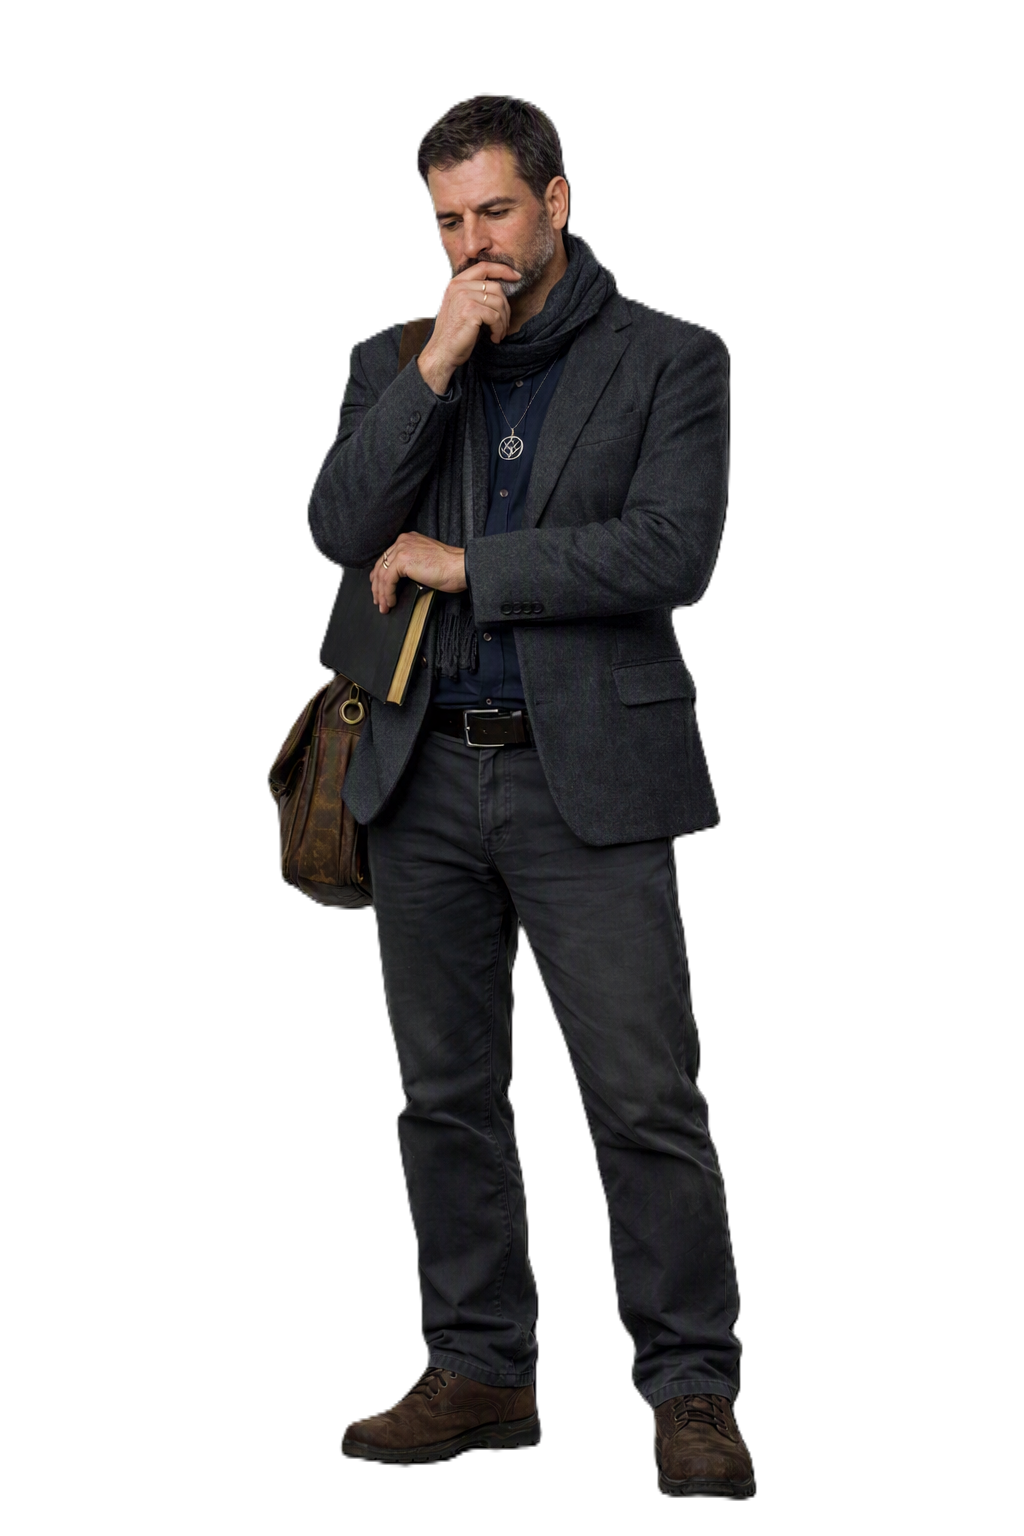
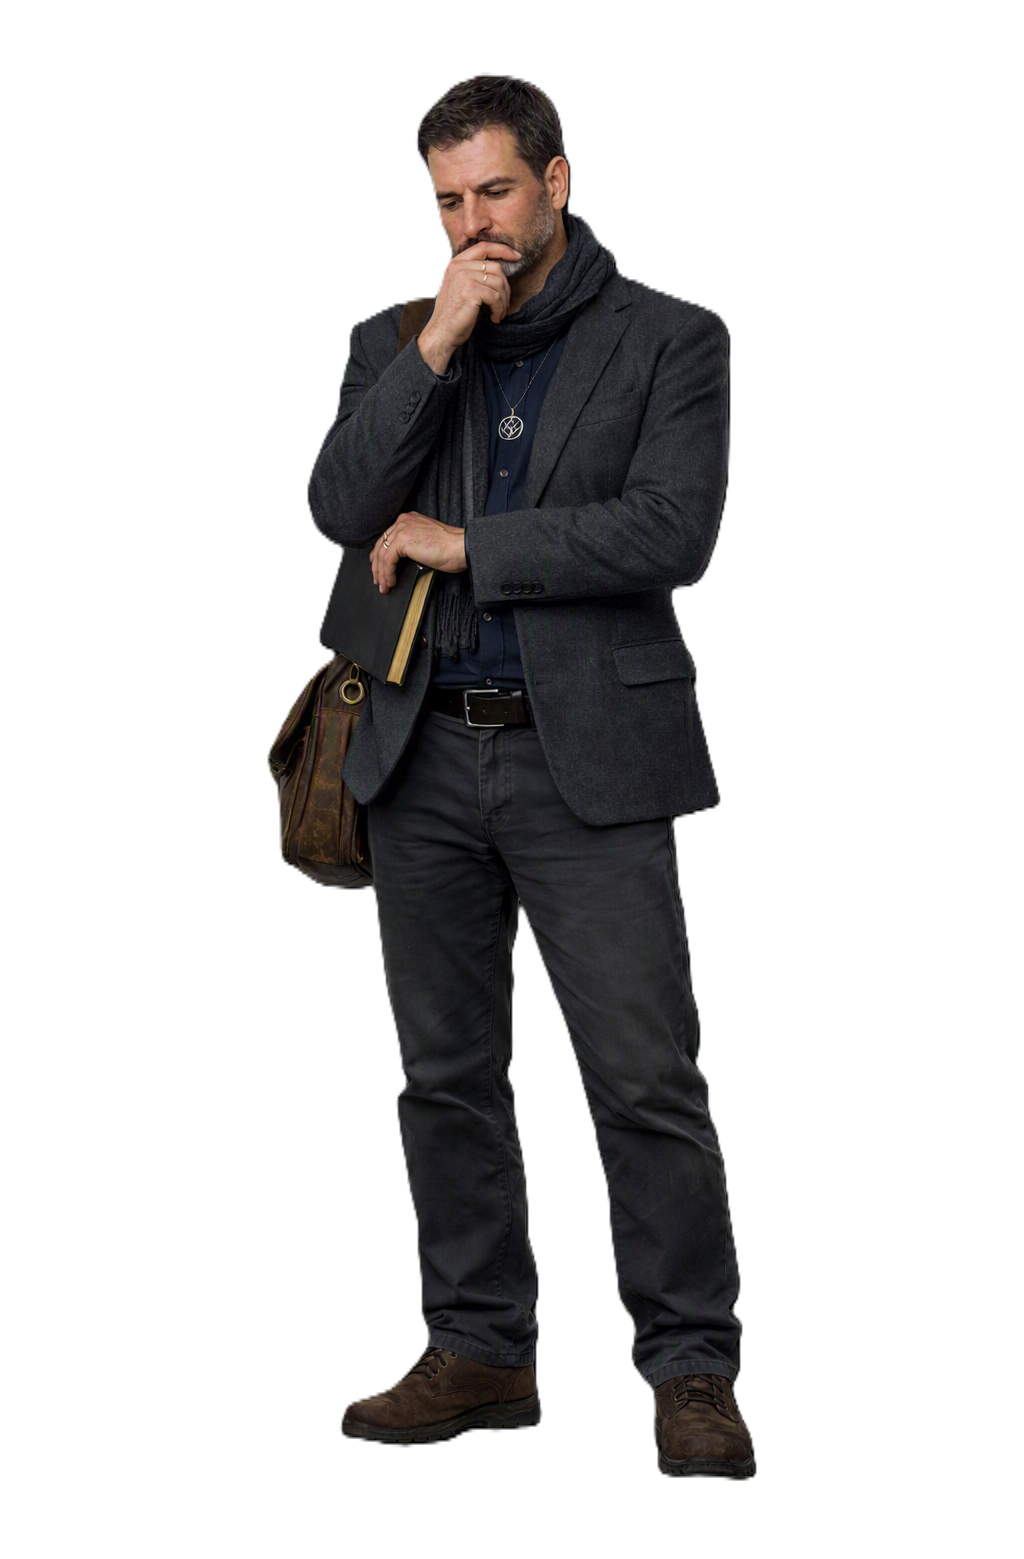
Actualiza recursos visuales del inventario y escenas

diff --git a/js/script.js b/js/script.js
@@ -916,8 +916,18 @@ monogatari.assets ('images', {
 	'llave_antigua': 'llave_antigua.png',
 	'overlay_vignette_sepia': 'overlay_vignette_sepia.png',
 	'overlay_grano': 'overlay_grano.png',
-	'overlay_letterbox': 'overlay_letterbox.png'
+	'overlay_letterbox': 'overlay_letterbox.png',
 
+	'collar': 'collar.png',
+	'amuleto': 'amuleto.png',
+	'tubo': 'tubo.png',
+	'palanca': 'palanca.png',
+	'pincel_arqueologico': 'pincel_arqueologico.png',
+	'lupa_filologo': 'lupa_filologo.png',
+	'simbolo_babilonico': 'simbolo_babilonico.png',
+	'reactivo_acido': 'reactivo_acido.png',
+	'epigrama_antipatro': 'epigrama_antipatro.png',
+	'paleta': 'paleta.png'
 });
 
 // Define the backgrounds for each scene.
@@ -1130,12 +1140,12 @@ monogatari.characters ({
         color: '#9B59B6',
         directory: 'lucia',
         sprites: {
-            normal: 'lucia_normal.png',
-            analitica: 'lucia_analyzing.png',
-	        concentrada: 'lucia_concentrada.png', 
+            normal: 'normal.png',
+            analitica: 'analitica.png',
+			   concentrada: 'concentrada.png',
 			scared: 'scared.png',
 			thinking: 'thinking.png',
-			calm: 'lucia_normal.png',
+			calm: 'normal.png',
 			smile: 'smile.png'
         }
     },
@@ -1645,9 +1655,9 @@ monogatari.script({
         //() => hideHotspot('vitrina'),
         //() => stopIconFollow(),
 		() => VerObjeto('idolo'),
-		() => ImagenEnHotspot('panuelo', { escala: 0.3 }),
+		() => ImagenEnHotspot('panuelo', { escala: 0.2 }),
         () => TomarObjeto('panuelo'),
-		() => ImagenEnHotspot('llave_antigua', { escala: 0.3 }),
+		() => ImagenEnHotspot('llave_antigua', { escala: 0.2 }),
 		() => TomarObjeto('llave_antigua'),
 		() => UsarObjeto('vitrina','llave_antigua','jump Escena1_Tomar'),
 		'narrator Necesitas la piedra de Ngenechén. La vitrina está cerrada.'
@@ -1797,8 +1807,8 @@ monogatari.script({
 	// -------------------------------------------------------------------------
 	'Escena3_Laboratorio': [
 		'show scene laboratorio with fadeIn',
-		'show character gabriel normal at left with fadeIn',
-		'show character lucia normal at right with fadeIn',
+		'show character gabriel normal at right with fadeIn',
+		'show character lucia normal at center with fadeIn',
 
 		'El laboratorio es un caos organizado: lámparas articuladas, herramientas de excavación, cajas con fragmentos y pizarras llenas de notas.',
 		'jump Escena3_Laboratorio_piedra', 
@@ -2072,8 +2082,11 @@ monogatari.script({
 		'Acción requerida: Activar el Bisturí Térmico de Campo para fundir el anillo de resina cristalizada.',
 		() => VerObjeto('cantaro'),
         () => TomarObjeto('collar'),
+		() => ImagenEnHotspot('collar', { escala: 0.2 }),
 		() => TomarObjeto('amuleto'),
+		() => ImagenEnHotspot('amuleto', { escala: 0.2 }),
 		() => UsarObjeto('tubo','bisturi_termico','jump Escena9_Coordenadas'),
+		() => ImagenEnHotspot('tubo', { escala: 0.2 }),
 		'narrator Necesitas el contenido del tubo. El tubo esta cerrado.'
 	],
 
@@ -2609,7 +2622,9 @@ monogatari.script({
 		() => VerObjeto('patina'),
 		() => VerObjeto('pantano'),
         () => TomarObjeto('palanca'),
+		() => ImagenEnHotspot('palanca', { escala: 0.2 }),
 		() => TomarObjeto('pincel_arqueologico'),
+		() => ImagenEnHotspot('pincel_arqueologico', { escala: 0.2 }),
 		() => UsarObjeto('patina','pincel_arqueologico','Se despega el oxido y se revela un grabado en bajo relieve con la espiral doble'),
 		() => UsarObjeto('canal','palanca','jump Escena18'),
 		'narrator Necesitas revisar el lugar en busca de una pista.'
@@ -3533,11 +3548,14 @@ monogatari.script({
 		() => VerObjeto('bajorelieve_babilonico2'),
 		() => VerObjeto('bajorelieve_babilonico_destruido'),
 		() => TomarObjeto('pincel_arqueologico'),
+		() => ImagenEnHotspot('pincel_arqueologico', { escala: 0.2 }),
 		() => TomarObjeto('lupa_filologo'),
+		() => ImagenEnHotspot('lupa_filologo', { escala: 0.2 }),
 		() => UsarObjeto('muro1','pincel_arqueologico','Analizas los surcos en la piedra: la técnica revela golpes sistemáticos orientados a borrar rostros paganos.'),
 		() => UsarObjeto('muro2','pincel_arqueologico','Analizas los surcos en la piedra: la técnica revela golpes sistemáticos orientados a borrar rostros paganos.'),
 		() => UsarObjetoSobreObjeto('simbolo_babilonico','lupa_filologo','jump Escena31_ObjetoOcultoBabilonia','Símbolo babilónico de fertilidad, una cruz cristiana primitiva, Inscripción en griego arcaico: φῶς νότου («luz del sur»)'),
 		() => TomarObjeto('simbolo_babilonico'),
+		() => ImagenEnHotspot('simbolo_babilonico', { escala: 0.2 }),
 		'narrator Necesitas revisar el lugar en busca de alguna pista. Después debes analizar la pista'
 	],
 
@@ -4111,11 +4129,14 @@ monogatari.script({
 		() => VerObjeto('poesia_votiva'),
 		() => VerObjeto('epigramas_funerarios'),
 		() => TomarObjeto('lupa_filologo'),
+		() => ImagenEnHotspot('lupa_filologo', { escala: 0.2 }),
 		() => TomarObjeto('reactivo_acido'),
+		() => ImagenEnHotspot('reactivo_acido', { escala: 0.2 }),
 		() => UsarObjeto('estante1','lupa_filologo','Poesía écfrástica y descriptiva: Poemas dedicados a describir obras de arte, monumentos y lugares célebres (de aquí surge su famoso poema sobre las Siete Maravillas del Mundo Antiguo).'),
 		() => UsarObjeto('estante2','lupa_filologo','La Antología Griega (Anthologia Graeca): Una colección de poemas y epigramas griegos que abarca varios siglos, incluyendo obras de poetas como Antípatro de Sidón.'),
 		() => UsarObjetoSobreObjeto('epigrama_antipatro','reactivo_acido','jump Escena38_EpigramaOriginal','El epigrama menciona: La octava luz guía a las siete desde el sur del mundo. El origen de la destrucción de las maravillas se encuentra en el Monte Sinaí.'),
 		() => TomarObjeto('epigrama_antipatro'),
+		() => ImagenEnHotspot('epigrama_antipatro', { escala: 0.2 }),
 		'narrator Necesitas revisar el lugar en busca de alguna pista. Después debes analizar la pista'
 	],
 /*
@@ -4255,6 +4276,7 @@ monogatari.script({
 		() => VerObjeto('pared5'),
 		() => VerObjeto('pared6'),
 		() => TomarObjeto('paleta'),
+		() => ImagenEnHotspot('paleta', { escala: 0.2 }),
 		() => UsarObjeto('pared1','paleta','jump Escena39_Revelacion'),
 		() => UsarObjeto('pared2','paleta','jump Escena39_Revelacion'),
 		'narrator Necesitas revisar el lugar en busca de alguna pista.'
@@ -4766,7 +4788,7 @@ monogatari.script({
 'Escena46': [
 
     'show scene bg_pedestal_luz with fadeIn',
-	() => ImagenEnHotspot('palo_antorcha', { escala: 0.5 }),
+	() => ImagenEnHotspot('palo_antorcha', { escala: 0.2 }),
     'narrator Tras escapar del derrumbe, el equipo llega a una cámara secundaria.',
     'narrator En el centro, un pedestal iluminado por una luz suave revela un artefacto.',
     'narrator El objeto parece tener energía propia.',
